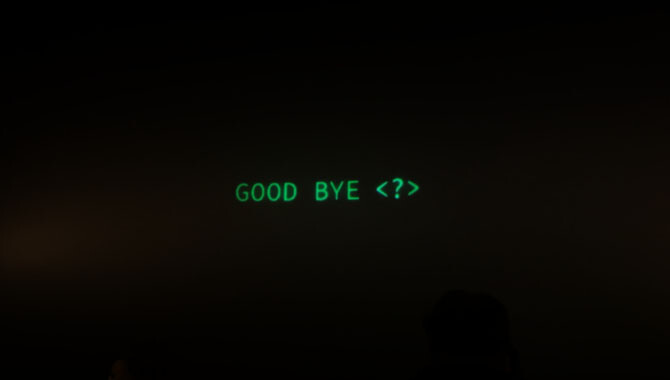
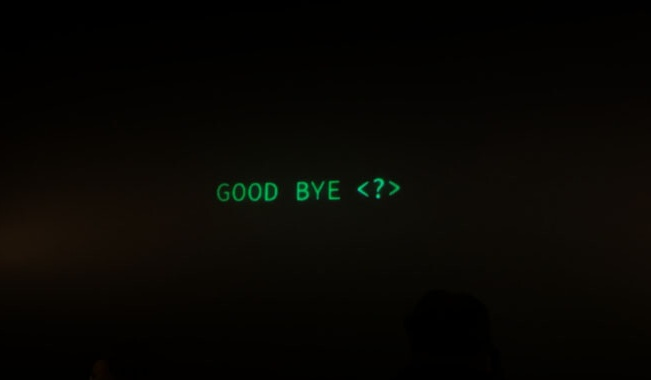
eliminación de imagenes anteriores

Changed region(s): [[0.3072, 0.4632, 0.6452, 0.55]]

diff --git a/index.html b/index.html
@@ -5,6 +5,7 @@
     <meta name="viewport" content="width=device-width, initial-scale=1.0">
     <title>The Batman</title>
     <link rel="stylesheet" href="./Style.css">
+    <link rel="icon" href="./img/icon.png">
 </head>
 <body>
     <div class="contenedor-imagen">
@@ -22,7 +23,9 @@
         <p>La respuesta es que no hay una escena propiamente dicha después de los créditos, pero sí hay algo, un easter egg. Si tienes curiosidad, querrás quedarte hasta el final. A diferencia de Marvel, que casi siempre tiene al menos una escena durante o después de los créditos de sus películas que dan pistas de lo que está por venir. Aquí el clip adicional al final está lejos de lo que normalmente esperaríamos. No es una escena rodada que presenta personajes en pantalla. Si tras casi tres horas de película quieres descubrirlo, es cosa tuya, si quieres saberlo, sigue leyendo.</p>
         <h1 id="titulo2">SPOILERS DE LA ESCENA POST-CRÉDITOS DE THE BATMAN</h1>
         <p>Con bajas expectativas el clip posterior a los créditos de 'The Batman' es divertido a su modo, no importa en términos de lo que significa para una posible secuela, aunque ahora ya sabemos que Matt Reeves confirmó que ha estado en conversaciones para 'The Batman 2', lo que tenemos es una especie de broma que da al público la oportunidad de interactuar con la historia después de salir del cine. En primer lugar aparece solamente una línea de conversación que dice: GOOD BYE (Adiós), como si fuera una conversación de chat con Enigma y este nos despide al salir del cine.</p>
-    
+        <img src="./img/img_1.jpeg" alt="imagen de goodbye">
+        <p>Hasta ese momento, es un guiño sin importancia a la película, dado que ese tipo de conexión misteriosa y creepy con el asesino es parte de la trama, pero si prestamos atención a la pantalla, porque el clip es corto y rápido, hay un pequeño flash que nos deja ver una imagen casi subliminal que nos muestra una web.</p>
+        <img src="./img/img_2.jpeg" alt="">
     </div>
 
 </body>
